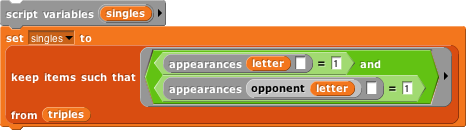
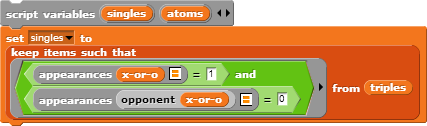
Added solution files for lists 2 and recursive reporters 1.  Also fixed pictures in lists 2.

diff --git a/cur/programming/lists/hof/ttt/09-improving.html b/cur/programming/lists/hof/ttt/09-improving.html
@@ -18,7 +18,7 @@
 <p>Trick question to make sure you're paying attention: Wouldn't it be better to find a fork in which X has <em>two</em> apperances in each triple? Discuss this with your partner if you don't have a good answer.</p>
 <p>The point of the fork is that if X moves in square 4, then X has two winning combinations for next time. It's O's turn, but O can block only one of the two wins, and so X fills out the remaining winning combination two moves from now. For example, if O moves in square 6 to block the center row, then X moves in square 7 to win in the left column. Conversely, if O moves in 7, then X moves in 6 and wins.</p>
 <p>The straightforward way to find a fork would be this mess:</p>
-<p><img src="/bjc-r/img/hof/hairy-fork.png" alt="really complicated fork script" /></p>
+<p><img src="/bjc-r/img/hof/ttt-messy-find-fork.png" alt="really complicated fork script" /></p>
 <p>Don't strain too hard to understand this; it's complicated, because (unlike the usual situation with HOFs) you have to look at every possible <em>pair </em>of triples, to find a number in common between two triples. In this script, <code>singles</code> is a list of those <em>singleton </em>triples with exactly one X (if that's our letter) and two free squares. Therefore, we have to <em>nest </em>two HOF calls. For each item of <code>singles</code>, we make a list <code>forks</code> containing those <em>other</em> triples that share a free square with this one. If that list is nonempty, we've found at least one fork, and so we take the first fork (it's unlikely that there will be two forks at once, but <code>keep</code> doesn't know that, so it reports a list, as usual) and report the number in common.</p>
 <p>Luckily, there's an easier way, although it's a little tricky. It depends on noticing that, in the end, we don't really care about the two triples in a fork, but only about the <em>pivot, </em>the number that appears in two triples. So we're going to find the pivot directly, without finding the triples, by &quot;collapsing&quot; the triple structure. Here's the plan:</p>
 <p>1. As in the previous version, find the singleton triples.</p>
